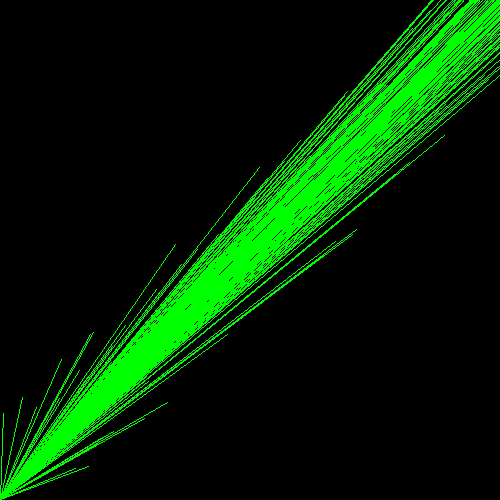
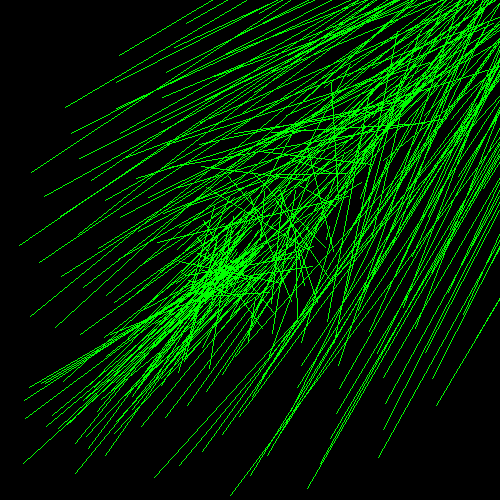
1

diff --git a/main.py b/main.py
@@ -35,9 +35,9 @@ clear_screen(screen)
 matrix = new_matrix(0)
 x, y, z = 250, 250, 1
 for i in range(250):
-	add_edge(matrix, x, y, z, int( math.sin(i/math.pi)), int( math.cos(i/math.pi)) , 1)
-	x = int( i*math.pi + random.randrange(100) )
-	y = int( i*math.pi + random.randrange(100) )
+	add_edge(matrix, x, y, z, int( i * math.sin(i/math.pi)) + 250, int( i * math.cos(i/math.pi)) + 250 , 1)
+	x = int( i*math.pi ) + random.randrange(100)
+	y = int( i*math.pi ) + random.randrange(100)
 	z = 1
 add_edge(matrix, x, y, z, 250, 250, 1)
 draw_lines(matrix,screen,color)
